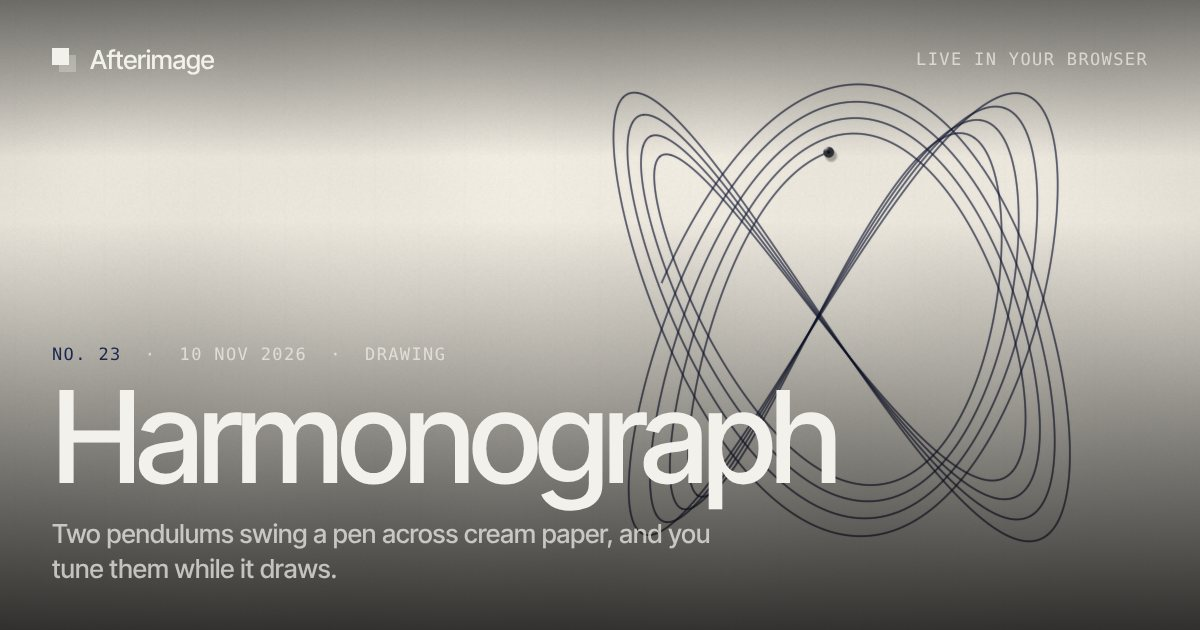
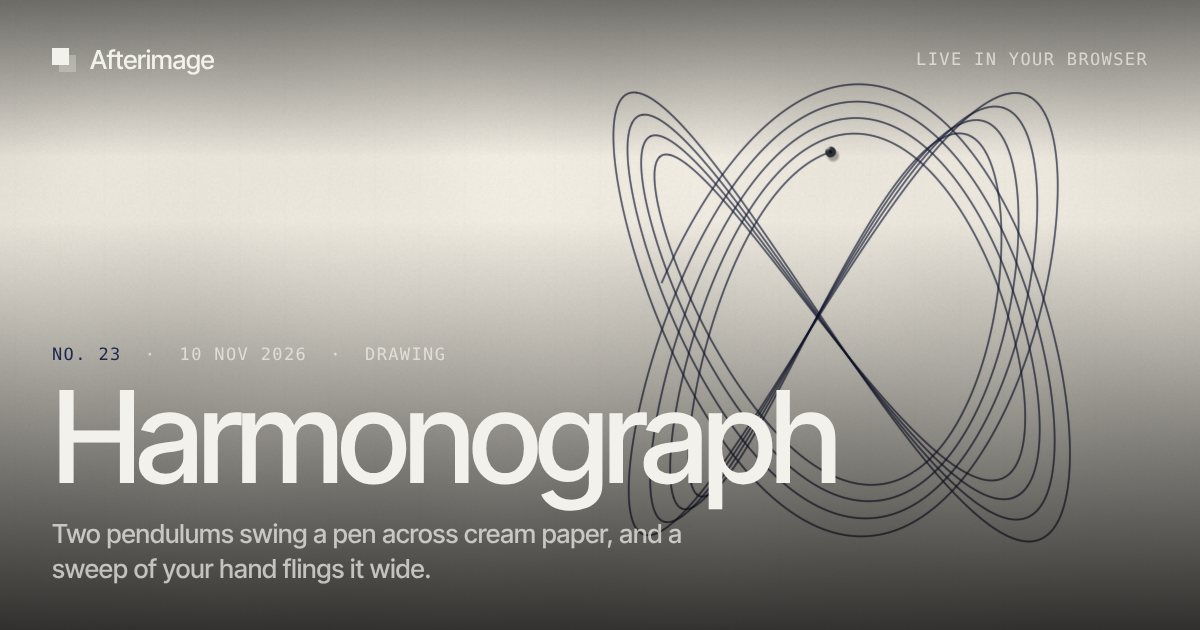
Harmonograph: the pointer pushes the pendulums
Retuning only showed after many loops, so the pointer now pushes instead:
its movement is added to the pendulums' velocity in the table's frame, so a
sweep flings the pen wide in that direction at once. Amplitude and phase are
carried on the CPU so a push never moves the pen, and the swing is capped so
it stays on the paper. The sheet ends when the swing has died, however long
that takes.

Claude-Session: https://claude.ai/code/session_01NZcfqGoJgcsBkSb6SakvRS

diff --git a/src/effects/index.ts b/src/effects/index.ts
@@ -1094,26 +1094,27 @@ const ENTRIES: readonly Entry[] = [
     name: "Harmonograph",
     published: "2026-11-10",
     category: "Drawing",
-    tagline: "Two pendulums swing a pen across cream paper, and you tune them while it draws.",
+    tagline: "Two pendulums swing a pen across cream paper, and a sweep of your hand flings it wide.",
     summary:
-      "A Victorian drawing machine: two pendulums swing a pen over a sheet of laid paper on a slowly turning table. Each swing dies away, so the pen spirals inward through dozens of loops and leaves a fine figure in blue-black ink, darker where lines cross. When the swing has died, the sheet clears and a new figure begins. Moving the pointer retunes the pendulums as the pen runs. Speed sets how fast the pen moves, Weight the line, and Damping how quickly each swing dies.",
+      "A Victorian drawing machine: two pendulums swing a pen over a sheet of laid paper on a slowly turning table. Each swing dies away, so the pen spirals inward through dozens of loops and leaves a fine figure in blue-black ink, darker where lines cross. When the swing has died, the sheet clears and a new figure begins. Moving the pointer pushes the pendulums in the direction you move, so the pen flies out on a new path and the figure carries your gesture as it winds back in. Speed sets how fast the pen moves, Weight the line, and Damping how quickly each swing dies.",
     explanation: [
       { title: "Swing the pendulums", body: "Each axis is driven by two pendulums at nearly the same rate. Their sum beats slowly, and x against y in a simple ratio, such as two to three, sets the figure." },
       { title: "Let it die away", body: "Every swing loses a little energy each cycle, so the loops shrink toward the middle, and the paper table turns slowly beneath the pen so they never retrace." },
+      { title: "Give it a push", body: "Moving the pointer adds to the pendulums' velocity in the direction you move. The pen stays where it is but sets off on a wider, new path, and the damping winds it back in." },
       { title: "Lay the ink", body: "Each frame only the pixels near the pen's path are touched. The stretch the pen covered is inked with flat ends, so frames join without beads, and ink pools darker where the pen slows." },
     ],
     rationale: {
-      idea: "A pendulum drawing machine that traces a fine, ever-tightening figure in ink on cream paper, with the pointer retuning the pendulums while it draws.",
+      idea: "A pendulum drawing machine that traces a fine, ever-tightening figure in ink on cream paper, and that you can push.",
       firstSeconds: "A small steel pen is already moving, sweeping big confident loops across the paper; within ten seconds dozens of fine lines have built up into a symmetrical, woven figure.",
-      interaction: "Moving across and up the screen detunes the second pendulum on each axis. Near the middle the loops close neatly on themselves; further out they precess into spirals and lace. The drawing records every change, so the sheet becomes a record of where your hand was.",
+      interaction: "The pointer pushes the pendulums the way a hand would: sweep across the paper and the pen is flung wide in that direction at once, then winds back into the figure. The sheet keeps every push, so each drawing is a record of how you handled the machine.",
       headline: "The empty paper on the left. The figure is drawn right of centre and never leaves its circle, and dark type on cream is the easiest headline there is.",
       nearest: "Ink, the other effect where ink lands on paper. Ink is a fluid that blooms and drifts; here a single precise line is laid by machinery, nothing moves once drawn, and the picture is made of time.",
-      risks: "A shader redrawing the whole curve every frame would be slow, so the sheet keeps the ink and only the pixels near this frame's stretch of path do any work. Retuning a pendulum mid-drawing would jump the pen, so phases are carried forward frame by frame. Round line ends would bead every join, so both ends are cut flat.",
+      risks: "A shader redrawing the whole curve every frame would be slow, so the sheet keeps the ink and only the pixels near this frame's stretch of path do any work. A push that moved the pen would draw a jump, so it changes only the pendulums' velocity, never their position. Round line ends would bead every join, so both ends are cut flat.",
     },
     technical: {
       insight: "Keeping the drawing in a texture and inking only the stretch of path the pen covered this frame makes an endlessly growing figure cost almost nothing, however many loops it holds.",
       pipeline: [
-        "cpu · pendulum phases carried forward frame by frame so retuning never jumps the pen; sheet timing, ratios and the box the pen swept this frame",
+        "cpu · each pendulum's amplitude and phase carried frame by frame; pointer movement added to their velocity as a push; sheet timing and the box the pen swept this frame",
         "fragment · ink pass on a screen-sized half-float sheet: pixels outside the swept box copy through; the rest measure distance to 24 flat-ended segments of the path and add ink",
         "fragment · laid paper, ink darkening as it crosses itself with a faint bleed, and a steel pen with its shadow",
       ],
@@ -1123,10 +1124,10 @@ const ENTRIES: readonly Entry[] = [
         "persistent ink buffer",
         "bounding-box culling",
         "segment distance fields",
-        "phase accumulation",
+        "impulse on an oscillator",
       ],
       notes:
-        "Each axis is the sum of two damped sines at nearly equal frequency, so the axis beats slowly, and the axes run in a simple ratio that changes from sheet to sheet; the whole is rotated by a slowly turning table. The phases are integrated on the CPU and passed as the phase at the start of the frame, so when the pointer detunes a pendulum its speed changes but its position does not. The ink lives in an rgba16float ping-pong buffer at screen resolution, capped at 2400 pixels. Each frame the CPU evaluates the pen at 25 points over the frame's stretch of pendulum time and passes their bounding box; pixels outside it copy their ink and return. Inside, the shader measures distance to the 24 segments, cutting the first and last flat so neighbouring frames never ink the same spot twice, and adds coverage scaled up where the pen moves slowly. When the swing has died to an eighth, the pen lifts, the sheet fades out over a second and a half, and a new sheet begins with fresh phases and the next ratio.",
+        "Each axis is the sum of two damped sines at nearly equal frequency, so the axis beats slowly, and the axes run in a simple ratio that changes from sheet to sheet; the whole is rotated by a slowly turning table. Each pendulum's amplitude and phase are carried on the CPU and passed as they stand at the start of the frame. Pointer movement, turned into the table's frame, is added to the pendulums' velocity: position and new velocity give a new amplitude and phase, capped so the pen stays on the paper, and the pen swings off on the new path without a jump. The ink lives in an rgba16float ping-pong buffer at screen resolution, capped at 2400 pixels. Each frame the CPU evaluates the pen at 25 points over the frame's stretch of pendulum time and passes their bounding box; pixels outside it copy their ink and return. Inside, the shader measures distance to the 24 segments, cutting the first and last flat so neighbouring frames never ink the same spot twice, and adds coverage scaled up where the pen moves slowly. When the swing has died away, the pen lifts, the sheet fades out over a second and a half, and a new sheet begins with fresh phases and the next ratio.",
       source: "src/effects/harmonograph",
     },
     accent: "#1d2550",

diff --git a/src/effects/harmonograph/pipeline.ts b/src/effects/harmonograph/pipeline.ts
@@ -14,6 +14,10 @@ const MAX_EDGE = 2400
 const RATE = 1.7
 /** The pen is lifted once its swing has died to this fraction. */
 const END = 0.12
+/** How hard a moving pointer pushes the pendulums. */
+const PUSH = 12
+/** No single pendulum may swing wider than this, so the pen stays on the paper. */
+const MAX_AMP = 0.7
 /** Seconds the finished sheet takes to clear before the next one starts. */
 const CLEAR = 1.6
 
@@ -46,15 +50,31 @@ function hash(n: number) {
 }
 
 function penAt(s: Swing, tau: number): [number, number] {
-  const e = Math.exp(-s.shape[0] * tau)
-  const w = s.freq.map((f, i) => Math.sin(f * (tau - s.shape[3]) + s.phase[i]) * s.amp[i])
+  const t = tau - s.shape[3]
+  const e = Math.exp(-s.shape[0] * t)
+  const w = s.freq.map((f, i) => Math.sin(f * t + s.phase[i]) * s.amp[i])
   const qx = (w[0] + w[1]) * e
   const qy = (w[2] + w[3]) * e
-  const a = s.shape[1] * tau
+  const a = s.centre[2] + s.shape[1] * t
   return [
     s.centre[0] + (Math.cos(a) * qx - Math.sin(a) * qy) * s.shape[2],
     s.centre[1] + (Math.sin(a) * qx + Math.cos(a) * qy) * s.shape[2],
   ]
+}
+
+/**
+ * Give one pendulum a push: its velocity changes by dv, its position stays
+ * put, and its amplitude and phase follow from the two.
+ */
+function push(amp: number, theta: number, freq: number, dv: number): [number, number] {
+  const p = amp * Math.sin(theta)
+  const u = amp * freq * Math.cos(theta) + dv
+  const a = Math.hypot(p, u / freq)
+  if (a <= MAX_AMP) return [a, Math.atan2(p, u / freq)]
+  // Too wide: keep where it is and which way it moves, but cap the swing.
+  const k = Math.max(0, (MAX_AMP * MAX_AMP - p * p) / Math.max((u / freq) ** 2, 1e-9))
+  const u2 = Math.abs(p) >= MAX_AMP ? 0 : Math.sqrt(k) * u
+  return [Math.max(Math.abs(p), Math.hypot(p, u2 / freq)), Math.atan2(p, u2 / freq)]
 }
 
 export function createHarmonograph(setup: EffectSetup, src: HarmonographSources): EffectInstance {
@@ -78,10 +98,13 @@ export function createHarmonograph(setup: EffectSetup, src: HarmonographSources)
   let sheet = 0
   let tau = 0
   let clearing = 0
-  let detune: [number, number] = [0, 0]
-  // Each pendulum's phase, carried forward frame by frame: retuning one
-  // changes how fast it swings from here on, never where it is now.
+  // Each pendulum's phase and amplitude, carried forward frame by frame, so a
+  // push changes how it swings from here on, never where the pen is now.
   let theta: V4 | null = null
+  let amp: V4 = [0.55, 0.45, 0.55, 0.45]
+  let angle = 0
+  let lastMouse: [number, number] | null = null
+  let lastGesture = 0
   let lastDims: readonly [number, number] = [w0, h0]
 
   return {
@@ -97,34 +120,54 @@ export function createHarmonograph(setup: EffectSetup, src: HarmonographSources)
       const radius = Math.min(0.37, aspect * 0.44)
       const centre: V4 = [wide * Math.min(0.2 * aspect, 0.5 * aspect - radius - 0.06), 0.08 * (1 - wide), 0, 0]
 
-      // Each sheet has its own ratios, phases and a little drift of its own.
+      // Each sheet has its own ratios, phases and a slight detune between the
+      // two pendulums on each axis, so their sum beats slowly.
       const base = SHEETS[sheet % SHEETS.length]
-      const own: [number, number] = [(hash(sheet * 3.1) - 0.5) * 0.05, (hash(sheet * 7.7) - 0.5) * 0.05]
-      // The pointer detunes the second swing of each pendulum: across for x,
-      // up and down for y. Near zero the figure closes on itself; away from it
-      // the loops precess into spirals.
-      const want: [number, number] =
-        inputs.pointer > 0.02 ? [(inputs.mouse[0] - 0.5) * 0.12, (0.5 - inputs.mouse[1]) * 0.12] : own
-      const k = 1 - Math.exp(-dt * 3)
-      detune = [detune[0] + (want[0] - detune[0]) * k, detune[1] + (want[1] - detune[1]) * k]
-
-      // The two pendulums on an axis start nearly together, so they add up
-      // rather than cancel; x and y start apart, so the figure opens out.
-      const px = hash(sheet + 0.1) * 6.283
-      const py = px + 0.8 + hash(sheet + 0.3) * 1.6
-      theta ??= [px, px + (hash(sheet + 0.2) - 0.5) * 1.2, py, py + (hash(sheet + 0.4) - 0.5) * 1.2]
+      const detune = [(hash(sheet * 3.1) - 0.5) * 0.05, (hash(sheet * 7.7) - 0.5) * 0.05]
       const freq: V4 = [3 * base[0], 3 * (base[1] + detune[0]), 3 * base[2], 3 * (base[3] + detune[1])]
+      if (!theta) {
+        // The two pendulums on an axis start nearly together, so they add up
+        // rather than cancel; x and y start apart, so the figure opens out.
+        const px = hash(sheet + 0.1) * 6.283
+        const py = px + 0.8 + hash(sheet + 0.3) * 1.6
+        theta = [px, px + (hash(sheet + 0.2) - 0.5) * 1.2, py, py + (hash(sheet + 0.4) - 0.5) * 1.2]
+        amp = [0.55, 0.45, 0.55, 0.45]
+        angle = 0
+      }
+
+      // The pointer pushes. Its movement across the paper, turned into the
+      // table's frame and the pendulums' units, is added to their velocity,
+      // so a sweep of the hand flings the pen wide in that direction.
+      const gesture = inputs.gesture ?? 0
+      const live = inputs.pointer > 0.05 && gesture === lastGesture
+      if (live && lastMouse && clearing <= 0) {
+        const mx = (inputs.mouse[0] - lastMouse[0]) * aspect
+        const my = -(inputs.mouse[1] - lastMouse[1])
+        if (Math.hypot(mx, my) < 0.25) {
+          const c = Math.cos(-angle)
+          const sn = Math.sin(-angle)
+          const kick = (PUSH / radius) * Math.min(1, inputs.pointer)
+          const dx = (c * mx - sn * my) * kick
+          const dy = (sn * mx + c * my) * kick
+          ;[amp[0], theta[0]] = push(amp[0], theta[0], freq[0], dx * 0.55)
+          ;[amp[1], theta[1]] = push(amp[1], theta[1], freq[1], dx * 0.45)
+          ;[amp[2], theta[2]] = push(amp[2], theta[2], freq[2], dy * 0.55)
+          ;[amp[3], theta[3]] = push(amp[3], theta[3], freq[3], dy * 0.45)
+        }
+      }
+      lastMouse = inputs.pointer > 0.05 ? [inputs.mouse[0], inputs.mouse[1]] : null
+      lastGesture = gesture
+
       const swing: Swing = {
         freq,
         phase: theta,
-        amp: [0.55, 0.45, 0.55, 0.45],
+        amp,
         shape: [damp, 0.012, radius, tau],
-        centre,
+        centre: [centre[0], centre[1], angle, 0],
       }
 
       // Advance the pen; lift it once the swing has died away, clear the
       // sheet, and start the next.
-      const tauEnd = Math.log(1 / END) / damp
       const tau0 = tau
       let down = 1
       let fade = 1
@@ -136,13 +179,12 @@ export function createHarmonograph(setup: EffectSetup, src: HarmonographSources)
           sheet++
           tau = 0
           theta = null
-          detune = inputs.pointer > 0.02 ? detune : [0, 0]
         }
       } else {
-        tau = Math.min(tauEnd, tau + dt * rate)
-        if (tau >= tauEnd) clearing = CLEAR
+        tau += dt * rate
+        if (Math.max(amp[0] + amp[1], amp[2] + amp[3]) < END) clearing = CLEAR
       }
-      const tau1 = clearing > 0 && down === 0 ? tau0 : tau
+      const tau1 = down === 0 ? tau0 : tau
 
       // The box the pen swept this frame, so the drawing pass can skip the rest.
       let box: V4 = [1e3, 1e3, -1e3, -1e3]
@@ -168,8 +210,15 @@ export function createHarmonograph(setup: EffectSetup, src: HarmonographSources)
       frame.pass(state.write, draw)
       state.swap()
 
+      // Carry each pendulum to the end of the frame.
       const step = tau1 - tau0
-      if (theta) theta = theta.map((th, i) => th + freq[i] * step) as V4
+      if (theta && step > 0) {
+        const th = theta
+        theta = th.map((v, i) => v + freq[i] * step) as V4
+        const e = Math.exp(-damp * step)
+        amp = amp.map((v) => v * e) as V4
+        angle += 0.012 * step
+      }
 
       present.set({
         sheet: state.read.color,

diff --git a/README.md b/README.md
@@ -65,7 +65,7 @@ with `strictPort`, so a busy port fails loudly instead of moving; `shots.sh` and
 | 20 | **Ferro** | tilted height-field march with bisection, field-gated hexagonal spike lattice, smooth-union pool on a damped spring, studio Fresnel reflection | field, spikes, pull |
 | 21 | **Chladni** | finite-volume sand on a 512² r32float grid drifting to the nodal lines of square plate modes, resonance falloff between notes, hashed grains on tilted grids | bow, sand, tempo |
 | 22 | **Thermochrome** | ping-pong heat field with diffusion and cooling, speed-weighted fingertip deposit, hand SDF palm prints, liquid crystal palette with noise-warped bands | warmth, cool |
-| 23 | **Harmonograph** | damped two-pendulum curves with carried phases, persistent ink buffer inked only inside the frame's swept box, flat-ended segment distances, laid paper | speed, weight, damping |
+| 23 | **Harmonograph** | damped two-pendulum curves pushed by the pointer, persistent ink buffer inked only inside the frame's swept box, flat-ended segment distances, laid paper | speed, weight, damping |
 
 ## Copy
 
